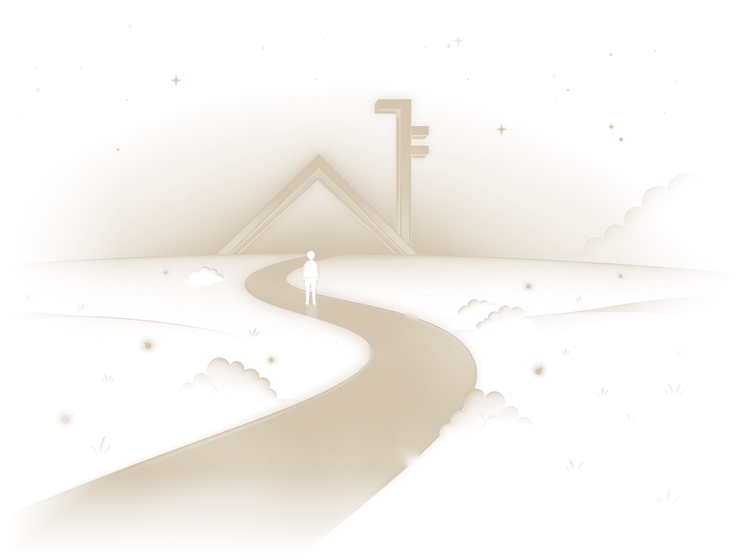
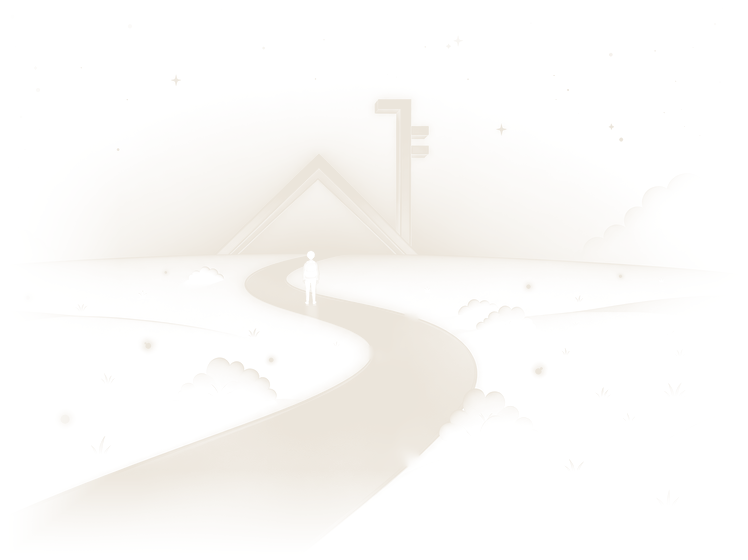
🛤 첫 화면 베이지 그림을 더 연하게 (컴퓨터 0.55→0.25 · 폰도 같은 만큼)
Claude-Session: https://claude.ai/code/session_016q4uzfUEvVGt9e2A8vHf6a

diff --git a/index.html b/index.html
@@ -237,7 +237,7 @@ nav {
 .hero-left { padding-top: 4rem; }
 /* 🛤 길 · 집 · 열쇠 그림 (2026-11-21 · 2026-11-24 원장님 그림을 베이지 빛으로 바꿈 : hero-path-beige.png · 옛 선그림 hero-road.png 는 남겨 둠) : 오른쪽 문구 «위» 에 자리를 차지하게 둔다 — 겹치지 않게
    선은 그림 파일에 녹회색 한 빛으로 담겨 있고 옅기는 여기서 정한다 */
-.hero-road { display: block; height: clamp(190px, 34vh, 420px); width: auto; max-width: 112%; margin: 2rem 0 1.6rem -6%; opacity: 0.55; pointer-events: none; user-select: none; }   /* 높이를 화면 높이에 맞춰 : 낮은 화면에서도 위가 안 잘리게 */
+.hero-road { display: block; height: clamp(190px, 34vh, 420px); width: auto; max-width: 112%; margin: 2rem 0 1.6rem -6%; opacity: 0.25; pointer-events: none; user-select: none; }   /* 높이를 화면 높이에 맞춰 : 낮은 화면에서도 위가 안 잘리게 */
 @media (max-width: 900px) { .hero-road { height: auto; width: 100%; max-width: 440px; margin: 1rem auto 1.2rem; } }
 @media (max-width: 560px) {
   .hero-road { display: none; }
